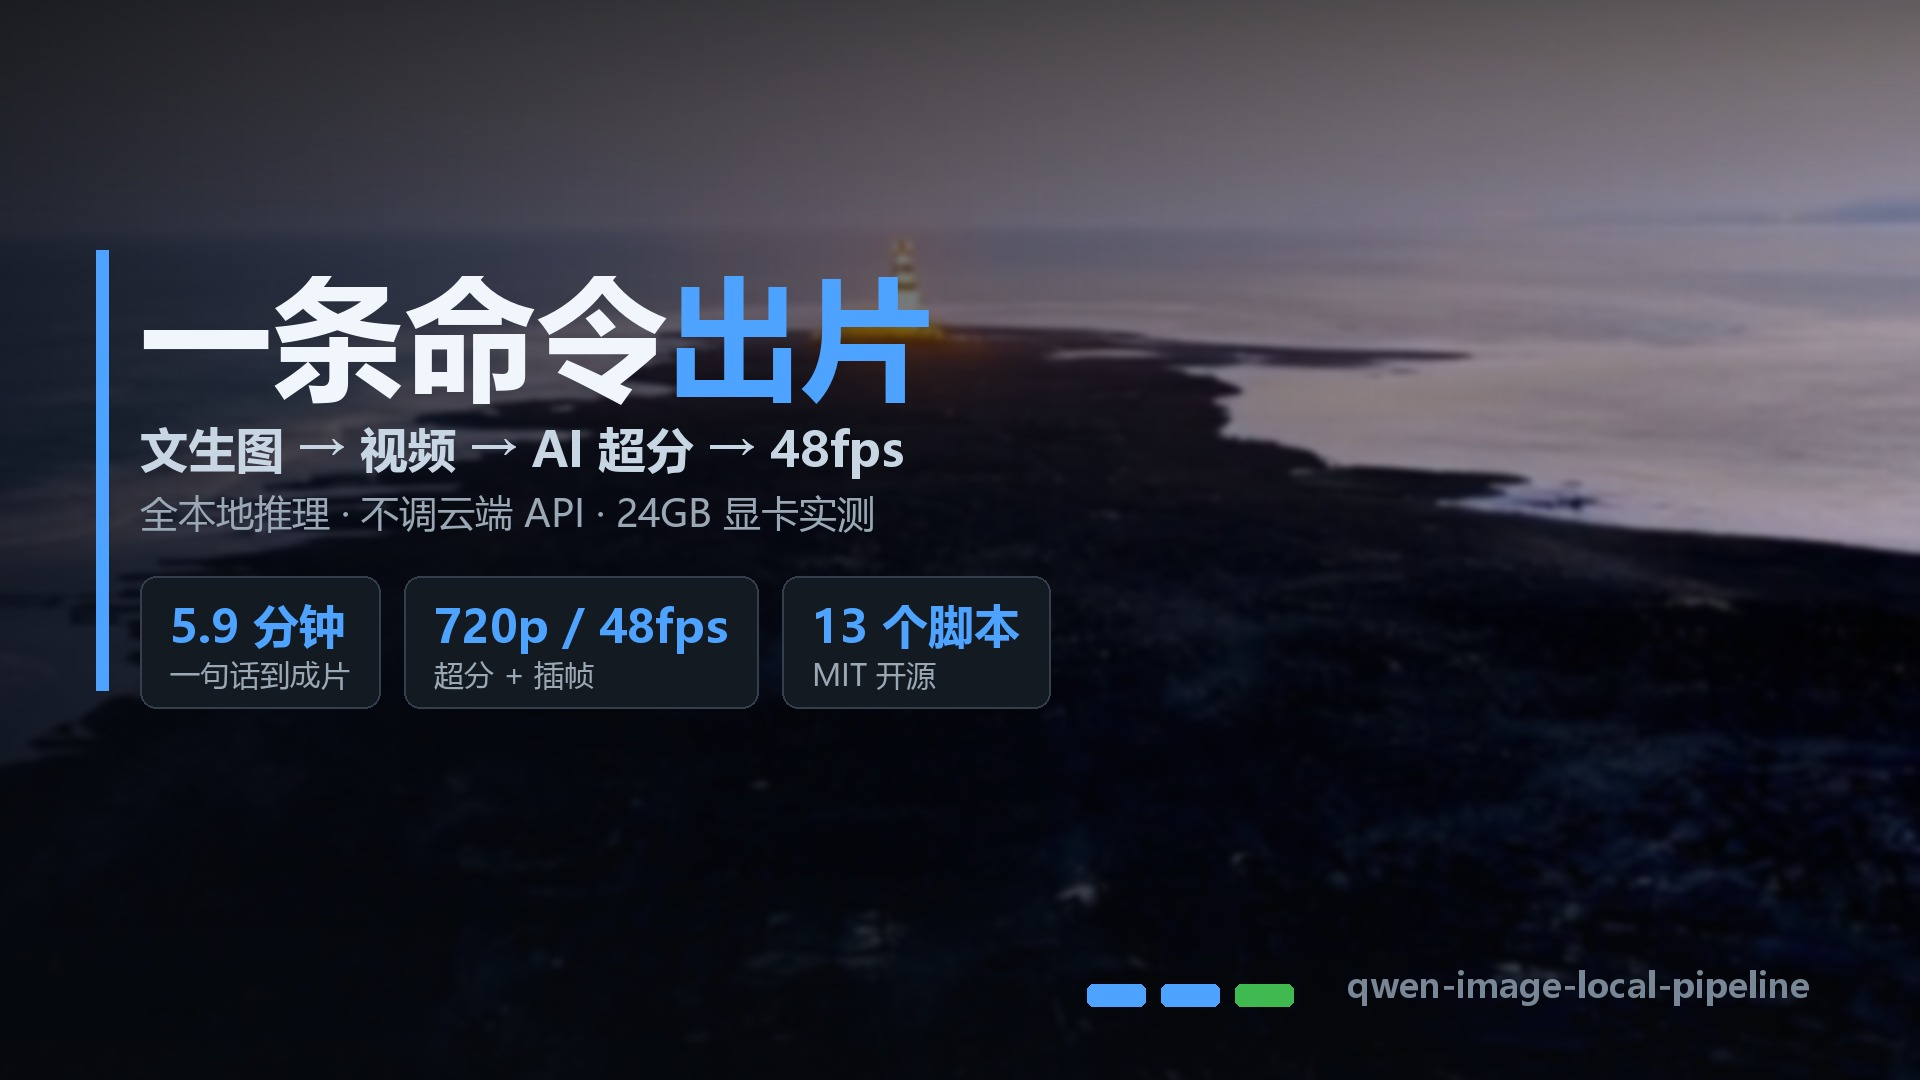
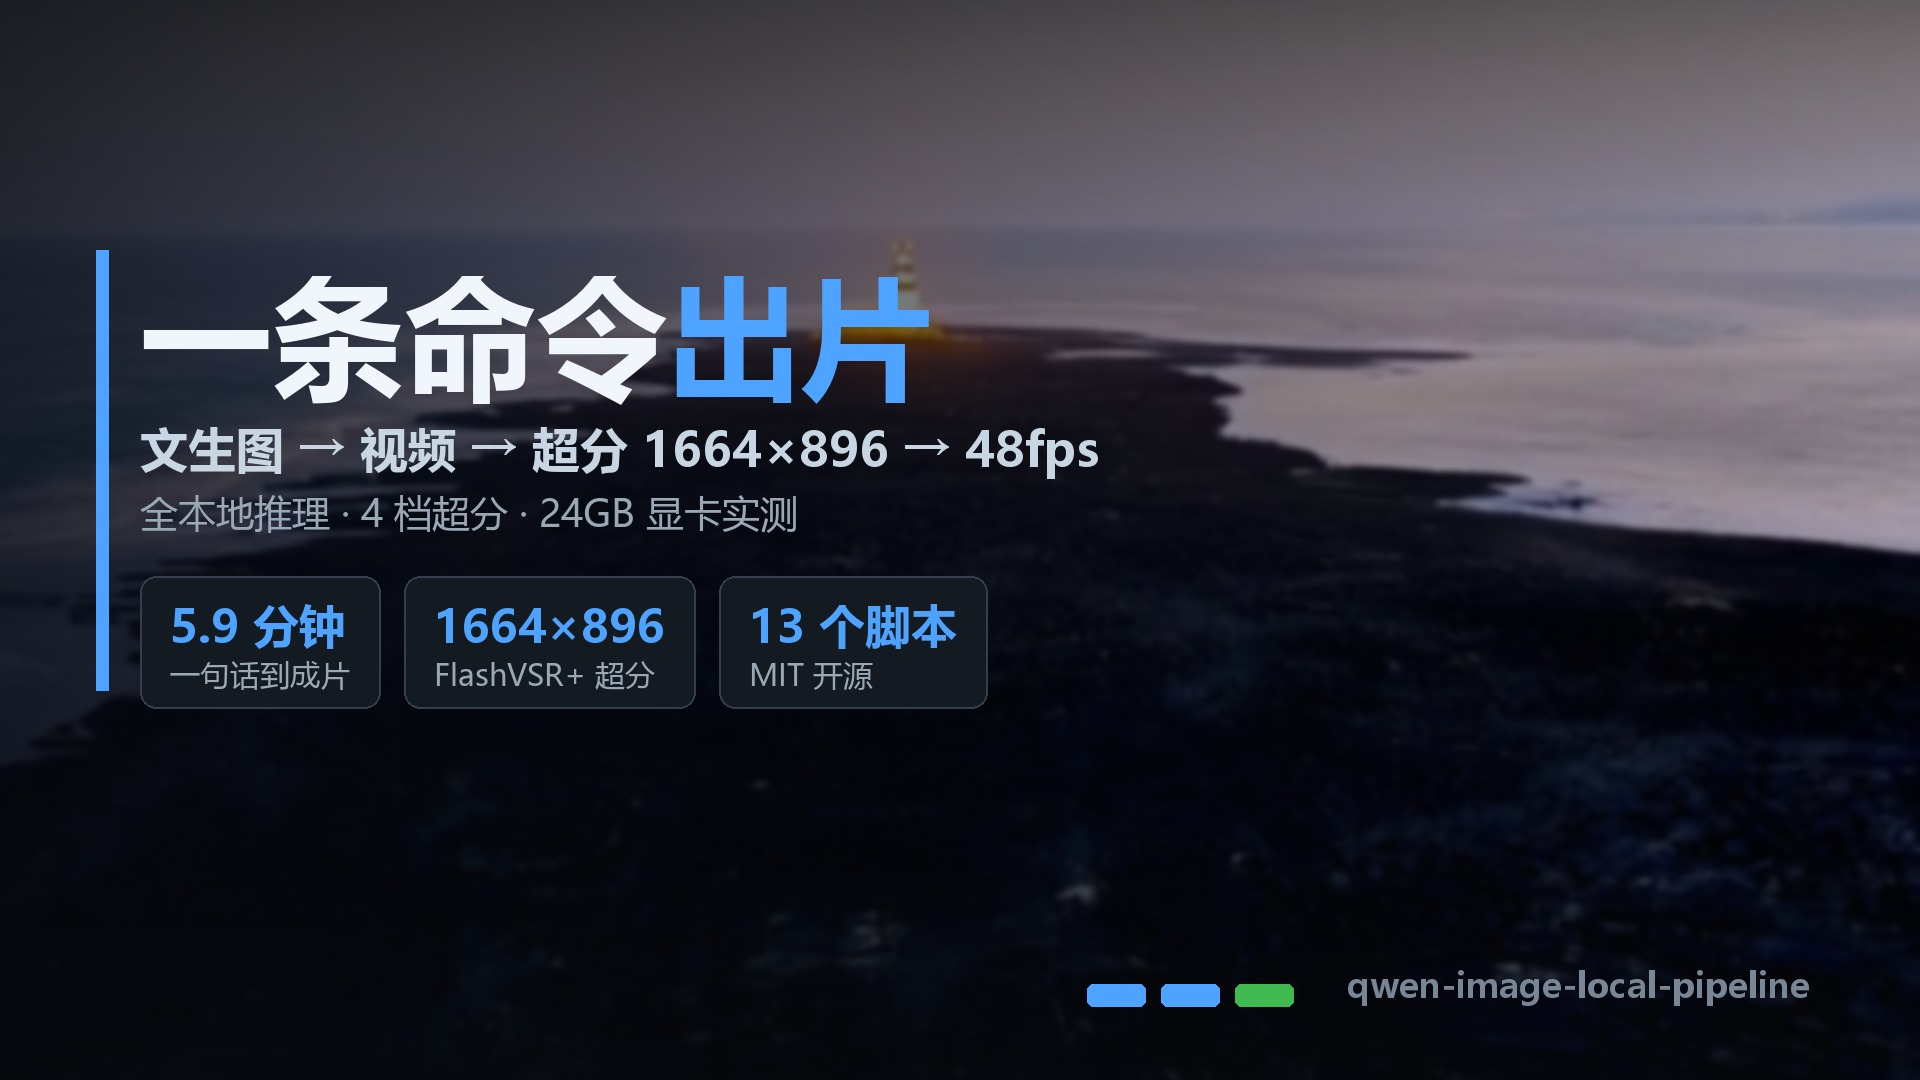
docs(promo): refresh covers and launch copy for v0.2.0 (FlashVSR+)

Changed region(s): [[0.2188, 0.55, 0.5312, 0.6417], [0.1875, 0.3972, 0.5938, 0.4889], [0.5, 0.6417, 0.5312, 0.6722]]

diff --git a/promo/launch-copy.md b/promo/launch-copy.md
@@ -1,120 +1,146 @@
-# 推广文案（B 项）
+# 推广文案（v0.2.0 版，2026-10-24 更新）
 
-> 配套仓库：`qwen-image-local-pipeline`。以下文案可直接改署名/账号后发布。
+> 配套仓库：`qwen-image-local-pipeline`。本次更新重点：**多了一条高分辨率超分路线（FlashVSR+，1664×896）**，
+> 以及一个反转故事——「官方环境」装上之前是没用的。
 
 ---
 
-## 一、标题候选（按平台选）
+## 一、标题候选
 
 **B 站 / YouTube**
-1. **「24G 笔记本把 AI 出片跑成流水线：文生图 → 视频 → 4K 超分，一条命令 6 分钟」**
-2. 「不用云端、不花钱：本地 AI 一条命令出片，附全部实测耗时和踩坑清单」
-3. 「我把 6 个 AI 工具串成了一条流水线，从此出片只要一句话」
+1. **「24G 笔记本把 AI 出片跑成流水线：文生图 → 视频 → 1664×896 超分」**
+2. 「我装了官方环境之后，这个超分模型才真正能用（附实测对比）」
+3. 「一条命令出片：从一句话到 1664×896 / 48fps」
 
 **公众号 / 知乎**
-1. **「我把文生图、图生视频、AI 超分串成了一条命令」**
-2. 「本地 AI 出片的最后一公里：为什么你生成的视频总是不够清晰」
-3. 「24GB 显存能做什么：一套全本地的 AI 出片流水线（附 13 个坑）」
+1. **「AI 视频超分：装对环境和没装对，差 3 倍分辨率」**
+2. 「我把四条超分路线跑了一遍，最后留下两个」
+3. 「本地 AI 出片流水线 v0.2：多了一条 1664×896 的路」
 
 ---
 
 ## 二、开头钩子（三选一）
 
-**A. 痛点式**
-> 用 AI 生成的视频，第一眼惊艳，第二眼就露馅——放大一看全是糊的。
-> 我花了几天把超分、插帧、拼接收进同一条命令，现在从一句话到 720p/48fps 成片只要 6 分钟。
+**A. 反转式（本次主推）**
+> 同一个模型，我一开始测出来的结论是"24G 卡根本跑不动，只能 512×288"。
+> 直到把它要求的官方环境装上——**同样的卡，直接跑到 1664×896，还比原来的方案快 27 秒**。
+> 差别不在显卡，在一个很多人会漏装的依赖。
 
 **B. 数据式**
-> 832×480 生成 125 秒 → AI 超分 103 秒 → 插帧 16 秒 = 5.9 分钟拿到 720p/48fps。
-> 比直接生成 720p 快 2.4 倍，而且更流畅。这是实测数字，不是估算。
+> 121 帧 5 秒片：FlashVSR+ 1664×896 用 76 秒，SeedVR2 1248×720 用 103 秒。
+> 分辨率高 65%，时间还少 27 秒。代价是显存从 15.9 GB 涨到 23.3 GB——24G 卡刚好够。
 
-**C. 反差式**
-> 大家都在讨论哪个模型更强，但没人告诉你：模型只是第一步。
-> 从"一张能看的图"到"一段能发的视频"，中间隔着超分、插帧、显存、帧数约束四个坑。
+**C. 痛点式**
+> AI 生成的视频第一眼惊艳，放大一看全是糊的。我花了几天把超分、插帧、拼接收进同一条命令，
+> 现在从一句话到 1664×896 / 48fps 成片，5.9 分钟。
 
 ---
 
-## 三、B 站视频脚本（5~6 分钟）
+## 三、B 站视频脚本（6~7 分钟）
 
-**标题**：24G 显卡把 AI 出片跑成流水线：文生图→视频→4K超分，一条命令
+**标题**：24G 显卡把 AI 出片跑成流水线：文生图→视频→1664×896超分
 
 **简介**：
 > 全本地 AI 出片流水线，不开云端、不花钱。
 > 一条命令：文字 → 首帧 → 视频 → AI 超分 → 48fps 成片。
-> 仓库开源（MIT），模型自己下，全流程实测耗时都写在文档里。
-> 硬件：RTX 5090 Laptop 24GB ｜ 软件：stable-diffusion.cpp + ComfyUI + SeedVR2
-> 仓库地址：[待填]
+> 本期重点讲超分：四条路线实测，以及「官方环境」到底差在哪。
+> 硬件：RTX 5090 Laptop 24GB ｜ 软件：stable-diffusion.cpp + ComfyUI + SeedVR2 + FlashVSR+
+> 仓库（MIT）：[待填]
 
 **时间轴**：
 | 时间 | 内容 |
 |---|---|
-| 0:00 | 成果展示：一条命令跑出的 720p/48fps 成片（放 3 段） |
+| 0:00 | 成果展示：一句话 → 1664×896/48fps 成片（放 3 段） |
 | 0:20 | 问题：为什么你的 AI 视频一放大就糊 |
-| 0:45 | 流水线全景图（三段式截图 + 耗时标注） |
-| 1:10 | 第一段：草稿用 832×480，别硬上 720p（讲 2.4 倍差距） |
-| 2:00 | 第二段：AI 超分（SeedVR2）为什么必须用 CLI 而不是界面 |
-| 3:10 | 第三段：插帧 + 续接拼长片（显存不够的解法） |
-| 4:00 | 关键坑点 5 连发（BOM、中文路径、4n+1、1080p 爆显存、模型名） |
-| 5:00 | 仓库长什么样、怎么改配置、能跑在什么显卡上 |
-| 5:40 | 结尾：下一步想做什么（H3 带音频 / ControlNet） |
+| 0:45 | 流水线全景（三段截图 + 耗时标注） |
+| 1:10 | 第一段：草稿用 832×480，别硬上 720p（2.4 倍差距） |
+| 2:00 | 第二段：四条超分路线一览（Lanczos / SeedVR2 720p / FlashVSR+ / 1080p） |
+| 2:40 | **本期核心：官方环境的反转**（先 512×288 只能跑，装 triton 内核 + plus 权重后 1664×896） |
+| 4:00 | 实测对比表：分辨率、耗时、显存三项一起看 |
+| 4:40 | 第三段：插帧 + 续接拼长片（显存不够的解法） |
+| 5:20 | 关键坑 5 连发（BOM、中文路径、4n+1、1080p 爆显存、模型名） |
+| 5:50 | 仓库怎么用、能跑在什么显卡上 |
+| 6:20 | 结尾：下一步（H3 带音频 / ControlNet 构图） |
 
-**封面文案建议**：
+**封面文案**（已生成，见 `promo/cover-*.jpg`）：
 - 主标：`一条命令出片`
-- 副标：`文生图 → 视频 → 4K 超分 · 5.9 分钟`
-- 角标：`全本地 · 免费 · 附源码`
+- 副标：`文生图 → 视频 → 超分 1664×896 → 48fps`
+- 徽章：`5.9 分钟` / `1664×896 FlashVSR+ 超分` / `13 个脚本 MIT 开源`
 
 ---
 
 ## 四、公众号 / 知乎长文结构
 
 **导语**（150 字）
-> 本地 AI 出图已经不稀奇了，但从"一张图"到"一段能发的视频"，中间还有一堆脏活：
-> 帧数必须是 4n+1、超分一开就爆显存、1080p 解码直接崩、生成的视频放大就糊。
-> 这篇文章把我踩过的坑和最终跑通的流水线完整写下来——包括每个环节的实测耗时。
+> 本地 AI 出图已经不稀奇，但从"一张图"到"一段能发的视频"还有一堆脏活：
+> 帧数必须 4n+1、超分一开就爆显存、1080p 解码直接崩、生成的视频放大就糊。
+> 这次我把四条超分路线全测了一遍，其中一条我一开始判了"死刑"，装上官方环境后结论完全反过来。
 
 **正文结构**
-1. **先看结果**：三张对比图（超分前后 / 流水线三段 / 图片 4K）
-2. **流水线长什么样**：一张架构图 + 命令表（7 个动作）
-3. **三个关键决策**
-   - 为什么草稿只用 832×480（2.4 倍差距的实测）
-   - 为什么超分必须用 SeedVR2 的 CLI（前端子图 API 提交不了）
-   - 为什么长片靠"续接"而不是一次生成（显存约束）
-4. **实测数据表**（完整贴，10 行）
-5. **13 个坑**（精选 5 个展开，其余列表）
+1. **先看结果**：三张对比图（超分前后 / 四档分辨率 / 官方环境前后）
+2. **流水线长什么样**：架构图 + 7 个动作的命令表
+3. **四个关键决策**
+   - 草稿只用 832×480（2.4 倍差距）
+   - 超分分档：什么时候 Lanczos、什么时候 SeedVR2、什么时候 FlashVSR+
+   - **官方环境的反转**：v1.0 + sdpa → 512×288 就 OOM；plus + triton 内核 → 1664×896 只要 76 秒
+   - 长片靠"续接"而不是一次生成
+4. **完整实测表**（4 档超分 + 生成耗时）
+5. **13 个坑**（精选 5 个展开）
 6. **硬件与替代方案**：24/16/12GB 分别能干什么；Topaz 值不值
-7. **仓库怎么用**：三条命令上手，配置文件说明
+7. **仓库怎么用**：三条命令上手
 8. **下一步**：H3 带音频、ControlNet 构图控制
 
 **结尾引导**
-> 仓库地址在评论区/文末（MIT 协议，模型自己下）。
-> 如果你跑通了，欢迎回来贴一张你的成片——我最想看的是：这套流水线在 16GB 卡上能压到什么程度。
+> 仓库地址在评论区/文末（MIT，模型自己下）。
+> 如果你也踩过"装了但跑不动"的坑，欢迎回来说说—— 这种坑最值得写进文档。
 
 ---
 
-## 五、配图清单（直接用仓库 assets）
+## 五、四条超分路线实测（本次新增数据）
+
+| 路线 | 命令 | 输出 | 121 帧耗时 | 显存 |
+|---|---|---|---|---|
+| Lanczos 放大 | `post.ps1 -Scale 1.5` | 1248×720 | **2.3 秒** | 低 |
+| SeedVR2 3B（720p） | `ai-upscale.ps1 -Resolution 720` | 1248×720 | 103 秒 | 15.9 GB |
+| **FlashVSR+（高分辨率）** | `ai-upscale-flashvsr.ps1` | **1664×896** | **76.5 秒** | 23.3 GB |
+| SeedVR2 3B（1080p） | `ai-upscale.ps1 -Resolution 1080 -BatchSize 13` | 1920×1080 | 265 秒 | 11.6 GB |
+
+**"官方环境"前后对比（同一张卡、同一段片）**
+
+| 配置 | 处理分辨率上限 | 输出 | 耗时 | 显存 |
+|---|---|---|---|---|
+| FlashVSR v1.0 + sdpa | 约 512×288 | 1024×512 | 43 秒 | 13.0 GB |
+| **FlashVSR+ turbo + triton 稀疏** | **832×480** | **1664×896** | **164 秒（首次含 JIT）/ 76 秒（热）** | 23.3 GB |
+
+---
+
+## 六、配图清单
 
 | 图 | 文件 | 用在哪 |
 |---|---|---|
-| 视频超分对比（含局部放大） | `assets/samples/compare-video-upscale.jpg` | 封面 / 开头 |
+| 封面（通用 16:9） | `promo/cover-1920x1080.jpg` | 封面 / 头图 |
+| 封面（B 站） | `promo/cover-bilibili-1146x717.jpg` | B 站投稿 |
+| 视频超分前后 + 局部 ×3 | `assets/samples/compare-video-upscale.jpg` | 正文"超分"章节 |
 | 一条命令三段流水线 | `assets/samples/compare-pipeline.jpg` | 正文第一节 |
-| 图片 4K 超分对比 | `assets/samples/compare-image-upscale.jpg` | 正文"超分"章节 |
-| 文生图样张 | `assets/samples/sample-t2i.jpg` | 文生图小节 |
+| 图片 4K 超分 | `assets/samples/compare-image-upscale.jpg` | 图片超分小节 |
+| **原始 / SeedVR2 / FlashVSR+ 三路** | `D:\flashvsr\out\compare-final-plus.jpg` | **本期核心对比图** |
 | 一页速查 | `assets/cheatsheet.html`（截图） | 结尾"速查" |
 
 ---
 
-## 六、发布注意
+## 七、发布注意
 
-1. **别写"最强/第一"**：这是流程整合，不是新模型，过度宣传容易被挑刺。
-2. **价格类信息标"以官网为准"**：Topaz 订阅价格会变，写死容易被指正。
-3. **模型许可证要提一句**：多数允许商用但要求署名；FILM 等研究模型可能限制商用，
-   建议原文照抄 NOTICE.md 的提醒，避免读者踩坑。
-4. **别承诺速度**：不同显卡差距很大，统一口径"24GB 实测数据，其它显卡自己测"。
-5. **AI 内容的合规**：生成的图像/视频涉及肖像、商标时，责任在使用者（仓库 README 已声明）。
+1. 别写"最强/第一"：这是流程整合，不是新模型。
+2. 价格类信息标"以官网为准"。
+3. 模型许可证提一句（多数允许商用但要求署名；FlashVSR+ 以模型卡为准）。
+4. 别承诺速度：统一口径"24GB 实测数据，其它显卡自己测"。
+5. **"官方环境"那段要写清前提**：需要 triton-windows + MSVC（可本地编译），无需 CUDA Toolkit；
+   这是很多人卡住的地方，写清能救一批人。
 
 ---
 
-## 七、可复用的一句话电梯稿
+## 八、电梯稿
 
-> 一个把"文生图 → 图生视频 → AI 超分 → 插帧/续接/拼接"串成单条命令的全本地流水线，
-> 24GB 显卡一条命令 6 分钟出 720p/48fps 成片；附 13 类真实踩坑与完整实测耗时，MIT 开源。
+> 一个把"文生图 → 图生视频 → AI 超分 → 插帧/续接/拼接"串成单条命令的全本地流水线：
+> 24GB 显卡一条命令 5.9 分钟出 720p/48fps 成片，超分档最高可到 **1664×896（121 帧 76 秒）**；
+> 附 13 类真实踩坑、四档超分实测对比，MIT 开源。

diff --git a/promo/release-notes-v0.2.0.md b/promo/release-notes-v0.2.0.md
@@ -1,0 +1,92 @@
+# GitHub Release 正文（v0.2.0，复制粘贴用）
+
+> 用法：GitHub → Releases → v0.2.0 → Edit → 正文把下面的内容整段替换即可（当前已用 CHANGELOG 自动生成）。
+
+## Release title
+
+```
+v0.2.0 — FlashVSR+ 高分辨率超分（1664×896）/ High-res video upscaling
+```
+
+## Release body
+
+---
+
+**中文**
+
+新增一条**高分辨率超分路线**：FlashVSR+（Triton 稀疏注意力）。
+832×480 处理 → **1664×896 输出**，121 帧 **76 秒**（24GB 卡实测，显存峰值 23.3 GB）。
+比原有 SeedVR2 720p 方案**分辨率高 65%**、耗时更短。
+
+**English**
+
+New high-resolution upscaling path: FlashVSR+ with Triton sparse attention.
+832×480 → **1664×896**, 121 frames in **76 s** on a 24 GB GPU (peak 23.3 GB).
+65% more pixels than the existing SeedVR2 720p route — and faster.
+
+### ✨ 新增
+
+- **`scripts/ai-upscale-flashvsr.ps1`**：FlashVSR+ 超分脚本（配置驱动，自动启停 ComfyUI、归位编号、打印参数）
+- **`scripts/video.ps1`**：新增 `-Method flashvsr` 与 `-Width/-Height`，可 `-Action upscale -Method flashvsr -Interp 2`
+- **`config.sample.ps1`**：新增 5 个 FlashVSR 模型键 + `ComfyOutputDir`
+- **`docs/03-upscale.md`**：新增整章——为什么必须用 plus + Triton、四步安装、参数、实测、5 条坑
+- **`NOTICE.md`**：补 FlashVSR+ 模型清单与来源
+
+### 🔧 变更
+
+- `organize.ps1`：`flashvsr` 产物归为 `aiup`（此前会落到 `other`）
+
+### 📊 四档超分实测（RTX 5090 Laptop 24GB，121 帧 / 5 秒片）
+
+| 路线 | 输出 | 耗时 | 显存 |
+|---|---|---|---|
+| Lanczos 放大 | 1248×720 | 2.3 s | 低 |
+| SeedVR2（720p） | 1248×720 | 103 s | 15.9 GB |
+| **FlashVSR+** | **1664×896** | **76.5 s** | **23.3 GB** |
+| SeedVR2（1080p） | 1920×1080 | 265 s | 11.6 GB |
+
+### 🔍 「官方环境」为什么关键
+
+| 配置 | 处理分辨率上限 | 输出 | 耗时 |
+|---|---|---|---|
+| 原版 v1.0 + sdpa 兜底 | ~512×288 | 1024×512 | 43 s |
+| **plus 权重 + `flashvsr_attn`(Triton)** | **832×480** | **1664×896** | **76 s（热）** |
+
+- 节点自带 Triton 内核：`pip install -e operators/flashvsr_attn --no-build-isolation --no-deps`
+- 需要 `triton-windows` + MSVC，**不需要 CUDA Toolkit**
+- 原版 v1.0/v1.1 走 `block_sparse_attn` C++ 扩展，编译它才需要 CUDA Toolkit —— 24GB 卡上只能到 512×288，**不推荐**
+
+### ⚠ 已知限制
+
+1. 不含模型权重（plus 权重约 6.7 GB，需自行下载，见 `NOTICE.md`）
+2. FlashVSR+ 会吃满 24GB 显存，**不能和其他 AI 任务并发**
+3. 1280×720 处理档不可用（≈16 秒/帧，5 秒片要 30+ 分钟）
+4. 输出高度对齐到 64 的倍数（832×480 → 1664×896，比例 1.73 → 1.86）
+5. 不处理音轨
+
+### 📦 安装摘要
+
+```powershell
+# 节点
+git clone https://github.com/smthemex/ComfyUI_FlashVSR  ComfyUI/custom_nodes/ComfyUI_FlashVSR
+pip install --no-deps loguru win32-setctime torchmetrics pytorch-lightning lightning-utilities pandas pytz tzdata opencv-python
+
+# Triton 内核（节点自带）
+cd ComfyUI/custom_nodes/ComfyUI_FlashVSR/operators/flashvsr_attn
+pip install -e . --no-build-isolation --no-deps
+
+# plus 权重 → models/FlashVSR/（turbodit / lq_proj / TCDecoder / posi_prompt）+ models/vae/wan_2.1_vae.safetensors
+# 重启 ComfyUI（下拉列表在 import 时生成）
+```
+
+### 🙏 致谢
+
+OpenImagingLab/FlashVSR（与 FlashVSR+）· smthemex/ComfyUI_FlashVSR · Comfy-Org · SeedVR2
+
+---
+
+## 附件清单
+
+| 文件 | 说明 |
+|---|---|
+| `qwen-image-local-pipeline-v0.2.0.zip` | 838.9 KB，源码包（排除 `.git` 与 `config.ps1`） |

diff --git a/promo/README.md b/promo/README.md
@@ -2,19 +2,28 @@
 
 | 文件 | 用途 |
 |---|---|
-| `cover-1920x1080.jpg` | 通用封面（YouTube / 公众号头图 / README 首图） |
-| `cover-bilibili-1146x717.jpg` | B 站投稿封面（直接上传，无需裁切） |
-| `release-notes-v0.1.0.md` | GitHub Release 正文（标题 + body + 附件清单，可直接粘贴） |
-| `launch-copy.md` | 发布文案：标题候选、开头钩子、B 站时间轴脚本、长文结构、配图清单 |
-| `make_cover.py` | 重新生成封面（改文字/版式后重跑） |
+| `cover-1920x1080.jpg` | 通用封面（16:9，YouTube / 公众号头图 / README 首图） |
+| `cover-bilibili-1146x717.jpg` | B 站投稿封面（直接上传） |
+| `release-notes-v0.2.0.md` | v0.2.0 Release 正文（FlashVSR+ 高分辨率超分） |
+| `release-notes-v0.1.0.md` | v0.1.0 Release 正文（首个公开版本） |
+| `launch-copy.md` | 发布文案：标题候选、开头钩子、B 站时间轴、长文结构、实测表、配图清单 |
+| `make_cover.py` | 重新生成封面（改文案/版式后重跑） |
 | `make_compare.py` | 重新生成效果对比图（需要本地成片） |
 
-## 封面设计要点
+## 封面设计要点（v0.2.0）
 
 - 背景用**真实成片帧**（不是素材图），压暗 + 3px 模糊保证文字可读
 - 主标题 6 个字：「一条命令出片」，其中「出片」走高亮色
-- 三个数据徽章：**5.9 分钟 / 720p 48fps / 13 个脚本**（时间、质量、体量）
+- 副标题：`文生图 → 视频 → 超分 1664×896 → 48fps`
+- 三个数据徽章：**5.9 分钟 / 1664×896 / 13 个脚本**（时间、能力、体量）
 - 缩放后仍可读：B 站缩略图尺寸下标题依然清晰
+
+## 内容口径（写稿时遵守）
+
+1. 这是**流程整合**，不是新模型 —— 不写"最强/第一"
+2. 速度一律标"RTX 5090 Laptop 24GB 实测"，其它显卡不给承诺
+3. FlashVSR+ 的显存代价（23.3 GB）必须写出来，避免读者在小卡上撞墙
+4. 模型许可证以各自模型卡为准，权重不由本仓库分发
 
 ## 重新生成
 
